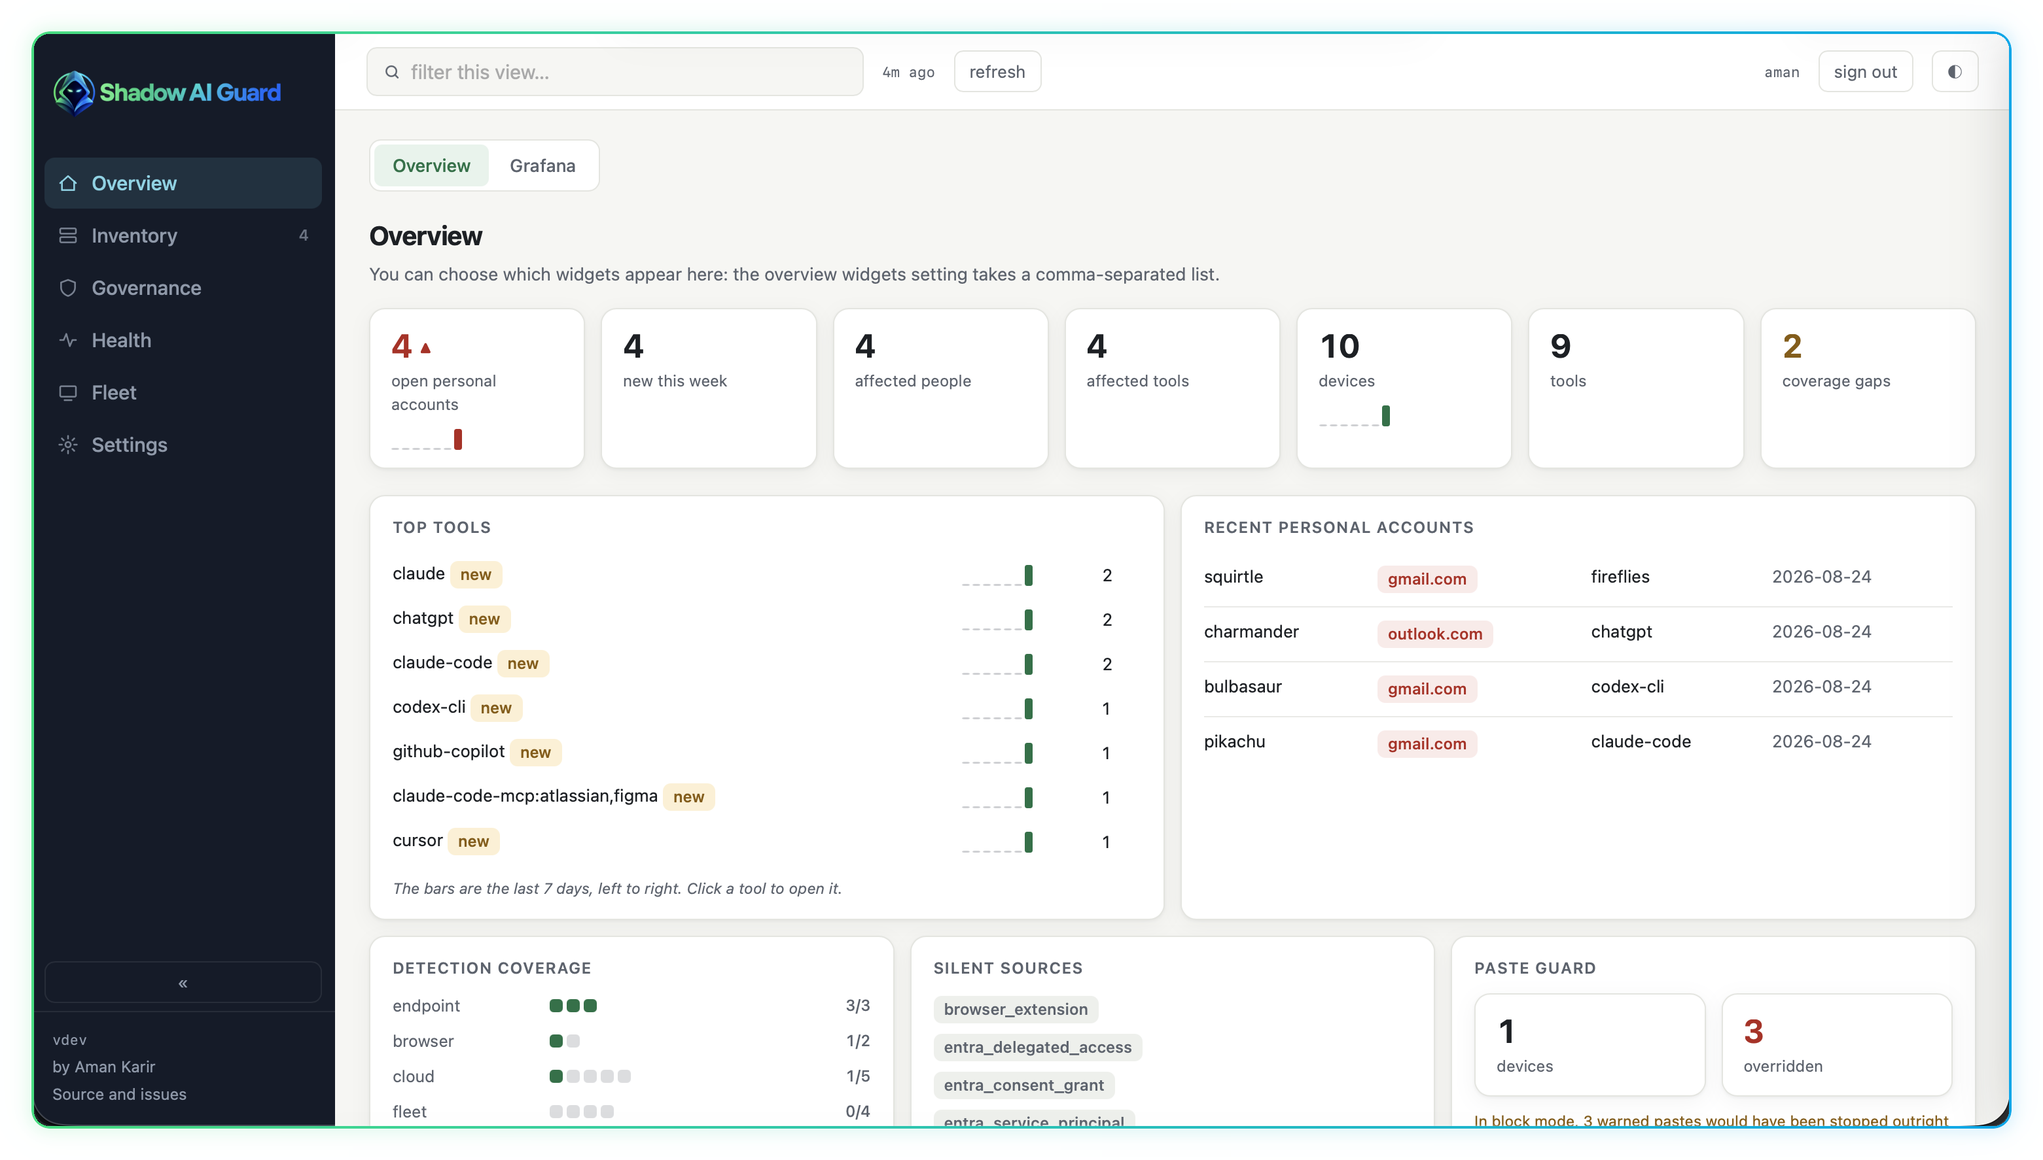
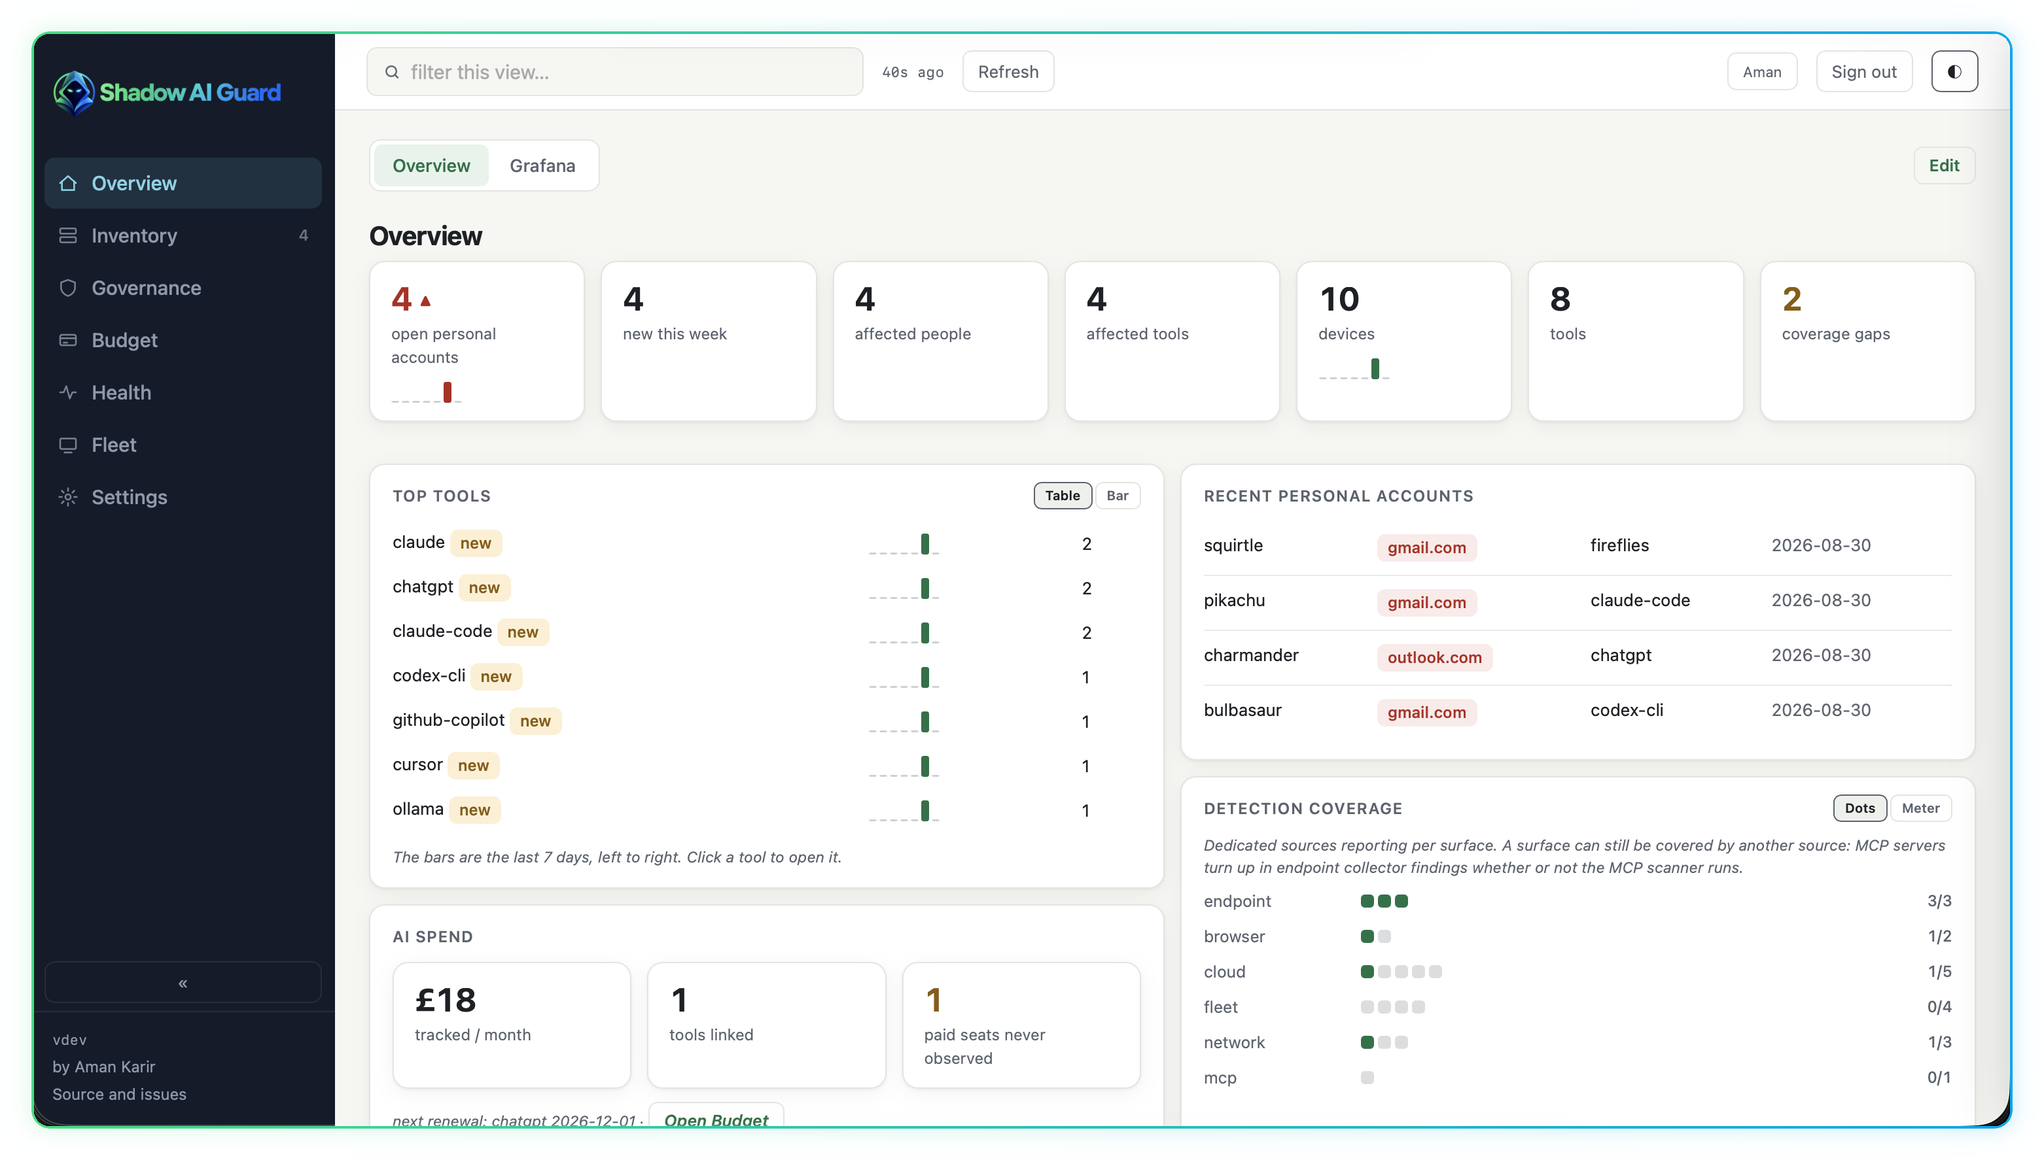
docs: the owner role, single sign-on, and the wizard as it is now
The docs described a two-role product with no federated sign-in and a
different wizard. Everything here was checked against the code rather than
remembered, and four of the corrections are outright wrong statements rather
than gaps.

The first account is an OWNER, not an admin - create_admin() inserts
role='owner' - and README, the getting-started guide and the portal README
all told people otherwise before they had even signed in. The deletion floor
moved with it: "the last admin cannot be deleted" was replaced by a floor
under the last OWNER, which is stricter than the admin floor ever was,
because an admin cannot make an owner and losing the last one cannot be
undone from inside at all.

The three roles are ranked, and the two rules that follow are worth stating
rather than leaving in the source: you cannot act on an account that
outranks you, and you cannot grant a role above your own. Without them the
tier above admin exists in name only - an admin reaches an owner by
resetting a password, by setting an email and signing in through the
identity provider, or by simply changing the role.

Single sign-on was documented nowhere at all. The only mentions of Entra
anywhere in the docs were the cloud scanner reading sign-in logs, which is a
different feature entirely. It is written up as BETA - it has not been run
against a real app registration - and the part that surprises people is
stated plainly: it authenticates, it does not provision. The account must
[…]

diff --git a/portal/README.md b/portal/README.md
@@ -115,13 +115,27 @@ with a fresh enrollment token baked in as the script's own fallback default
 (MDM-supplied values still win; corporate domains are never baked - the
 receiver serves those at runtime).
 
-On a fresh managed install the portal opens on a **first-run wizard**:
-corporate domains, a governance baseline over the registry's watchlist, the
-extension ID, and pre-configured deployment downloads for all five surfaces
-(three collectors, the extension's managed-storage policy plist, a scanner
-CronJob manifest with its token in a Secret). Every step is skippable and
-everything it sets is editable later; Finish records `onboarding_done` so
-the portal stops opening there. The extension policy is the one artifact
+On a fresh managed install the portal opens on a **first-run wizard** of
+seven steps, one screen at a time with a rail down the side: the public
+receiver URL, the log store, corporate domains, a governance baseline over
+the registry's watchlist, the browser extension, alerting and Grafana, and
+pre-configured deployment downloads for all five surfaces (three collectors,
+the extension's managed-storage policy plist, a scanner CronJob manifest
+with its token in a Secret).
+
+The rail marks each step required, recommended or optional. Two are
+required - the receiver URL and corporate domains - and the line is drawn
+where a blank value makes the deployment run WRONG rather than not run:
+collectors need only the receiver URL, and with no corporate domains every
+account reads as a personal one, which the Overview headline, Personal
+accounts and the ISO evidence all inherit quietly. Once both are in, the
+summary says the deployment can go out.
+
+Everything it sets is editable later, and leaving is allowed at any point:
+Finish and Skip both record `onboarding_done` so the portal stops opening
+there, and Skip says so first, naming Settings > Getting started as the way
+back. A viewer cannot record either - the receiver refuses the write - so
+for them the same button simply closes the wizard. The extension policy is the one artifact
 that bakes corporate domains - the extension reads no central config, so a
 domain change means regenerating that file (its header says so).
 
@@ -136,17 +150,30 @@ and the card says "set in the portal" so the two are never mistaken for one
 another. Exceptions stay file-only
 ([docs/governance.md](../docs/governance.md)).
 
-**Accounts and roles.** The first account (the one the setup code creates)
-is an admin. Admins can add more under Settings, as admin or as viewer. A
-viewer reads every page and can change nothing - every write comes back as
-a 403 that says so - which is the right shape for an auditor or an exec.
+**Accounts and roles.** The first account - the one the setup code creates -
+is the **owner**. Owners and admins add more under Settings > Account, as
+admin or as viewer. A viewer reads every page and can change nothing - every
+write comes back as a 403 that says so - which is the right shape for an
+auditor or an exec.
+
+The three roles are ranked, and the rank is enforced on every account
+action: you cannot act on an account that outranks you, and you cannot grant
+a role above your own. Otherwise an admin reaches an owner through any of
+three doors - reset the password and sign in as them, set their email and
+sign in through the identity provider, or simply change their role.
+
 A role changes from the dropdown on the account's row, and applies to that
 account's next request rather than its next sign-in - nobody has to sign
 out, though a page already open keeps showing its old buttons until it is
-reloaded. Passwords and sessions are untouched by the change. The last
-admin can be neither deleted nor demoted, password resets revoke the
-sessions the old password minted, and everything lands in the audit
-trail.
+reloaded. Passwords and sessions are untouched by the change. **The last
+owner can be neither deleted nor demoted** - an admin cannot make an owner,
+so losing the last one could not be undone from inside. Password resets
+revoke the sessions the old password minted, and everything lands in the
+audit trail.
+
+Changing your OWN password is not on that tab, which is about other
+people's accounts: it lives in the menu under your name in the header, and
+it is the one thing a viewer can change about themselves.
 
 **The audit trail.** Every change made through the portal - settings,
 decisions, accounts, enrollments, revocations - is recorded by the receiver

diff --git a/receiver/README.md b/receiver/README.md
@@ -149,7 +149,7 @@ a password in a password manager, reachable by nobody through the identity
 provider.
 
 | GET  | `/admin/settings` | admin | each central setting with its effective value and its source (`db`, `env`, `unset`), so a saved value shadowing an environment one is visible as such. The log-store password is reported as `{set, source}` only, never its value |
-| PUT  | `/admin/settings` | admin | partial upsert; a saved value wins over the matching env var, an explicit `null` (or empty) deletes the row and falls back to it. Unknown keys are 422. Keys: `corp_domains`, `extension_id`, `onboarding_done`, `receiver_public_url`, `log_store_url` (base - the push endpoint is **derived** as `<base>/loki/api/v1/push`), `log_store_push_url` (explicit override for gateways), `log_store_username`, `log_store_password`, `alertmanager_url`, `grafana_url`, `grafana_panels`, `grafana_dashboard_uid`, `overview_widgets`, `extension_update_url`, `extension_crx_url`, `extension_xpi_url`, `paste_guard_mode`, `firefox_extension_id`, `classification_markings`, `webhook_url` (Slack-compatible; the receiver posts to it when discovery queues a NEW tool or MCP server - once per candidate lifetime, from a thread, so a webhook outage can never bounce ingest. Masked like the log-store password: a webhook URL is a bearer capability) |
+| PUT  | `/admin/settings` | admin | partial upsert; a saved value wins over the matching env var, an explicit `null` (or empty) deletes the row and falls back to it. Unknown keys are 422. Keys: `corp_domains`, `extension_id`, `onboarding_done`, `receiver_public_url`, `log_store_url` (base - the push endpoint is **derived** as `<base>/loki/api/v1/push`), `log_store_push_url` (explicit override for gateways), `log_store_username`, `log_store_password`, `alertmanager_url`, `grafana_url`, `grafana_panels`, `grafana_dashboard_uid`, `overview_widgets`, `extension_update_url`, `extension_crx_url`, `extension_xpi_url`, `paste_guard_mode`, `firefox_extension_id`, `classification_markings`, `budget_currency` (the currency the Budget headline reports in and the default for a newly linked tool - a display preference, the receiver never converts between currencies), `sso_tenant_id`, `sso_client_id`, `sso_client_secret`, `sso_redirect_uri`, `sso_enabled` (Microsoft Entra sign-in for the portal; `sso_enabled` is deliberately last to matter - nothing else here takes effect until it is `1`, and the portal will not set it until a real sign-in has completed against the rest), `webhook_url` (Slack-compatible; the receiver posts to it when discovery queues a NEW tool or MCP server - once per candidate lifetime, from a thread, so a webhook outage can never bounce ingest. Masked like the log-store password and the SSO client secret: a webhook URL is a bearer capability) |
 | GET  | `/admin/settings/secrets` | admin (write) | the stored log-store configuration with the password in plaintext - for the portal's server-side reads via its service credential; the portal exposes no route that relays it. Admin-only, because the credential is typically write-capable and a read-only account must not be a path to it. See SECURITY.md |
 | POST | `/admin/test/log-store-push` | admin | push one synthetic `kind:"test"` line with the effective configuration and report what happened, hints included - catches the write-only-token trap at setup time instead of on the first quiet dashboard |
 | GET  | `/admin/registry-entries` | admin | the portal-defined registry entries, each flagged `shadowed` if a later release ships the same id (shipped wins at serve time; a shadowed local copy is a row to delete) |

diff --git a/README.md b/README.md
@@ -78,9 +78,12 @@ helm install ai-guard oci://ghcr.io/amansk5/shadow-ai-guard/charts/ai-guard \
 ```
 
 The receiver prints a one-time setup code to its log. Open the portal, create
-your admin account with it, and the first-run wizard walks you through the
-rest: log store, corporate domains, tool approvals, and ready-to-run downloads
-for the collectors, the browser extension and the scanners.
+the owner account with it, and the first-run wizard walks you through the
+rest in seven steps: receiver URL, log store, corporate domains, tool
+approvals, the browser extension, alerting, and ready-to-run downloads for
+the collectors and the scanners. Two of those are marked required, because a
+deployment missing them runs wrong rather than not running. You can leave the
+wizard at any point and pick it up again under Settings > Getting started.
 
 ```bash
 kubectl logs deploy/ai-guard -n ai-guard | grep setup_code
@@ -147,12 +150,25 @@ is operated:
 - **The fleet.** Devices enroll with their own credential and can be revoked
   individually. Enrollment tokens are invitations; devices are badges; both
   are managed here.
-- **Accounts.** Admins run the platform. Viewers read every page and can
-  change nothing - made for the auditor and the exec. Every change lands in
-  an audit trail with who did it.
+- **Accounts.** Three roles. The **owner** is the account the setup code
+  creates and the one that cannot be locked out: an admin cannot make
+  another owner, so the last one cannot be removed. **Admins** run the
+  platform. **Viewers** read every page and can change nothing - made for
+  the auditor and the exec. Nobody can act on an account that outranks
+  them, or grant a role above their own, which is what stops an admin
+  reaching an owner by resetting a password or changing a role. Sign-in is
+  a username and password, or Microsoft Entra where you would rather not
+  keep a second set of credentials. Every change lands in an audit trail
+  with who did it.
 - **Notifications.** A webhook fires the moment discovery finds something
   new, and a weekly digest summarises the estate to Slack or anything
   webhook-compatible.
+- **Finding your way around.** A guided walkthrough runs on a first sign-in
+  and covers every section of the portal, in the words of the role taking
+  it: an admin is told what to change, a viewer who to ask. The overview is
+  arranged per person - drag the cards, stack them, resize or hide them -
+  and that arrangement is yours, not the deployment's. Both are available
+  again at any time under Settings > Getting started.
 
 Grafana is optional and complementary: better at graphs and history, and the
 portal can embed its panels. The portal is better at relationships, current
@@ -356,6 +372,12 @@ inventory have all been fixed and tested since the first release.
 
 Current known limitations:
 
+- **Single sign-on is beta.** Microsoft Entra sign-in works against the
+  protocol but has not yet been run against a real app registration, so
+  pilot it on one account before moving anybody across. It authenticates
+  rather than provisions: the account must already exist with a matching
+  email address, and the first successful sign-in binds it to that Entra
+  identity permanently. Passwords keep working alongside it.
 - **Snap Chromium profiles.** The collectors inventory installed browser
   extensions from Chrome, Chromium, Brave and Edge profiles, but snap Chromium
   on Linux keeps its profile under `~/snap` and is not read, so an AI extension

diff --git a/docs/getting-started.md b/docs/getting-started.md
@@ -50,10 +50,9 @@ Both routes need a log store for findings. If you already run Loki, you will
 connect it in step 3 and nothing needs configuring up front. If you don't, the
 compose file includes one.
 
-## 2. Create your admin account
+## 2. Create the owner account
 
-The receiver prints a one-time setup code when it starts with no admin
-account:
+The receiver prints a one-time setup code when it starts with no account:
 
 ```bash
 # Kubernetes
@@ -67,11 +66,19 @@ On Windows, swap `grep -i` for `findstr /i` - it is built into both
 PowerShell and cmd.
 
 Open the portal, enter the code, pick a username and password. The code works
-exactly once and only for creating the first account.
+exactly once and only for creating the first account, and that account is the
+deployment's **owner** - the role that cannot be locked out, because an admin
+cannot create another one. Every account after it is added from inside the
+portal.
 
 ## 3. Follow the wizard
 
-The portal opens on a first-run wizard. Work through it top to bottom:
+The portal opens on a first-run wizard: seven steps, one screen at a time,
+with a rail down the side marking each one required, recommended or
+optional. Only two are required - the receiver URL and corporate domains -
+because a deployment missing either runs wrong rather than not running. Once
+both are in it will tell you the deployment can go out. You can leave at any
+point and pick it up again under Settings > Getting started.
 
 1. **Public receiver URL** - the URL your laptops and servers can reach the
    receiver on from outside the cluster. This gets baked into every download,
@@ -150,10 +157,17 @@ Everything below is optional and independent. Add them in any order.
 - **Discovery**: a scheduled job that spots AI domains in your fleet's DNS
   that the registry doesn't know yet, and queues them in the portal's review
   queue for you to define or dismiss. The portal generates this CronJob too.
-- **More eyes**: add accounts under Settings. Admins run the platform;
-  viewers read every page and can change nothing, which is the right shape
-  for an auditor or an exec. Every change anyone makes lands in the audit
-  trail under Diagnostics.
+- **More eyes**: add accounts under Settings > Account. The setup code made
+  you the owner; from there you can add admins, who run the platform, and
+  viewers, who read every page and can change nothing - the right shape for
+  an auditor or an exec. Nobody can act on an account that outranks them or
+  grant a role above their own, and the last owner cannot be removed. Every
+  change anyone makes lands in the audit trail under Diagnostics.
+- **Single sign-on** (beta): the same tab federates sign-in to Microsoft
+  Entra. It authenticates rather than provisions - create the account first
+  with the person's work address, and their first Entra sign-in binds it to
+  that identity for good. It has not yet been run against a real app
+  registration, so pilot it on one account before moving anybody across.
 - **Notifications**: set a webhook URL in Settings and the receiver posts to
   Slack (or anything webhook-compatible) the moment discovery finds a new
   tool. The portal can also send a weekly digest of the estate; see the

diff --git a/SECURITY.md b/SECURITY.md
@@ -80,12 +80,35 @@ In managed mode it is a real login: accounts in the receiver's state DB
 (scrypt-hashed passwords; the first is created on first boot with a one-time
 setup code the receiver prints to its log, further ones by an admin from
 inside), a session carried as an HttpOnly SameSite=Strict cookie, validated
-against the receiver per request. Accounts carry a role: an admin runs the
-platform, a viewer reads every page and is refused by every write route -
-the shape for an auditor, who gets the visibility without becoming a way
-in. The last admin cannot be deleted, password resets revoke the sessions
-the old password minted, and every admin action lands in the receiver's
-event log with who did it.
+against the receiver per request.
+
+Accounts carry one of three roles. An **owner** is what the setup code
+creates; an **admin** runs the platform; a **viewer** reads every page and
+is refused by every write route - the shape for an auditor, who gets the
+visibility without becoming a way in. The roles are ranked, and two rules
+follow from that rank: you cannot act on an account that outranks you, and
+you cannot grant a role above your own. Without them the tier above admin
+would exist in name only, because an admin reaches an owner through any of
+three doors - reset their password and sign in as them, set their email and
+sign in through the identity provider, or simply change their role. This is
+the escalation prevention Kubernetes RBAC names, and the same shape Entra
+enforces by refusing a password reset against a higher-privileged role.
+
+**The last owner cannot be removed or demoted.** This replaced a floor
+under the last admin, and is stricter than that floor ever was: an admin
+cannot make an owner, so losing the last one could not be undone from
+inside at all. Password resets revoke the sessions the old password minted,
+and every account action lands in the receiver's event log with who did it.
+
+Sign-in can also be federated to **Microsoft Entra**, which is beta: it has
+not yet been run against a real app registration. It authenticates, it does
+not provision. An account must already exist with the matching email
+address; the first successful sign-in binds that account to the tenant and
+subject GUID permanently, and a later attempt to bind it to a different
+federated identity is refused - rebinding is how an address change would
+otherwise hand somebody else's account away. Unbinding is deliberate,
+separate, and subject to the same rank rule. The account's password keeps
+working unless you remove it.
 
 A word on what the state DB holds, because it changed in 0.9.8. **Fleet
 credentials** - enrollment tokens, device credentials, sessions, the admin

diff --git a/docs/architecture.md b/docs/architecture.md
@@ -228,8 +228,8 @@ holds no database of its own, so it is a view rather than a store and it is
 never in the ingest path: losing it loses nothing.
 
 In managed mode it is also where the platform is run: the wizard, central
-settings, accounts (admin and read-only viewer), the review queue, the
-fleet, notifications, and pre-configured deployment downloads. Every one of
+settings, accounts (owner, admin and read-only viewer), the review queue,
+the fleet, notifications, and pre-configured deployment downloads. Every one of
 those writes is proxied to the receiver and authorized there with the
 operator's own session - the portal stores no credentials, so a compromised
 portal yields readable findings, which it always did, and nothing that can
